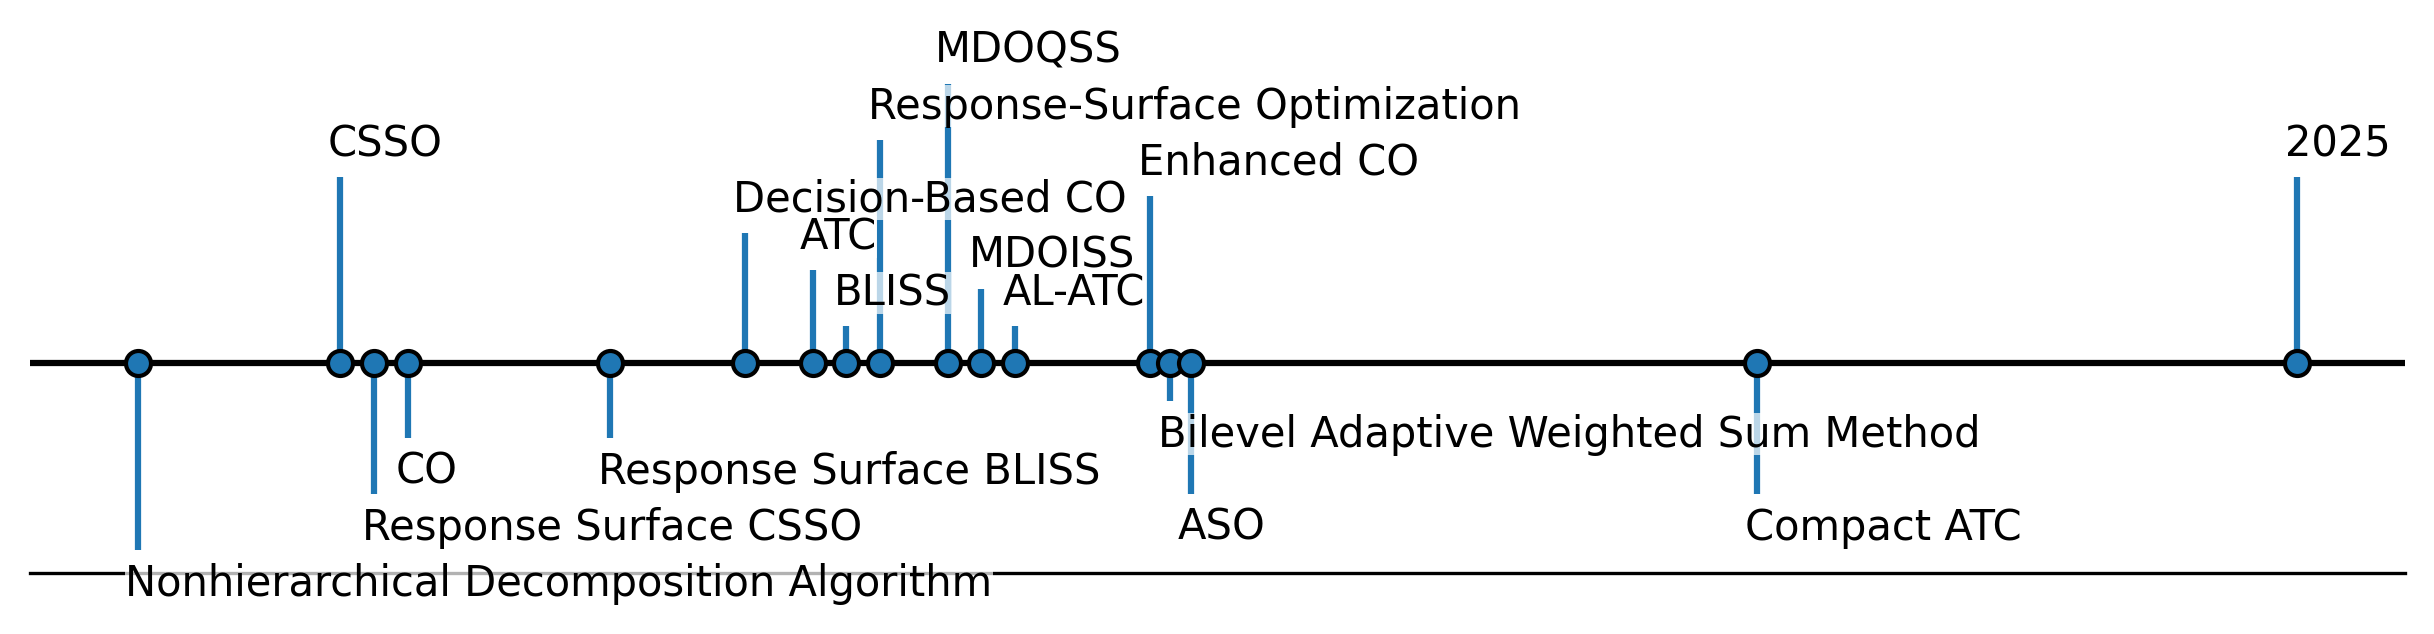
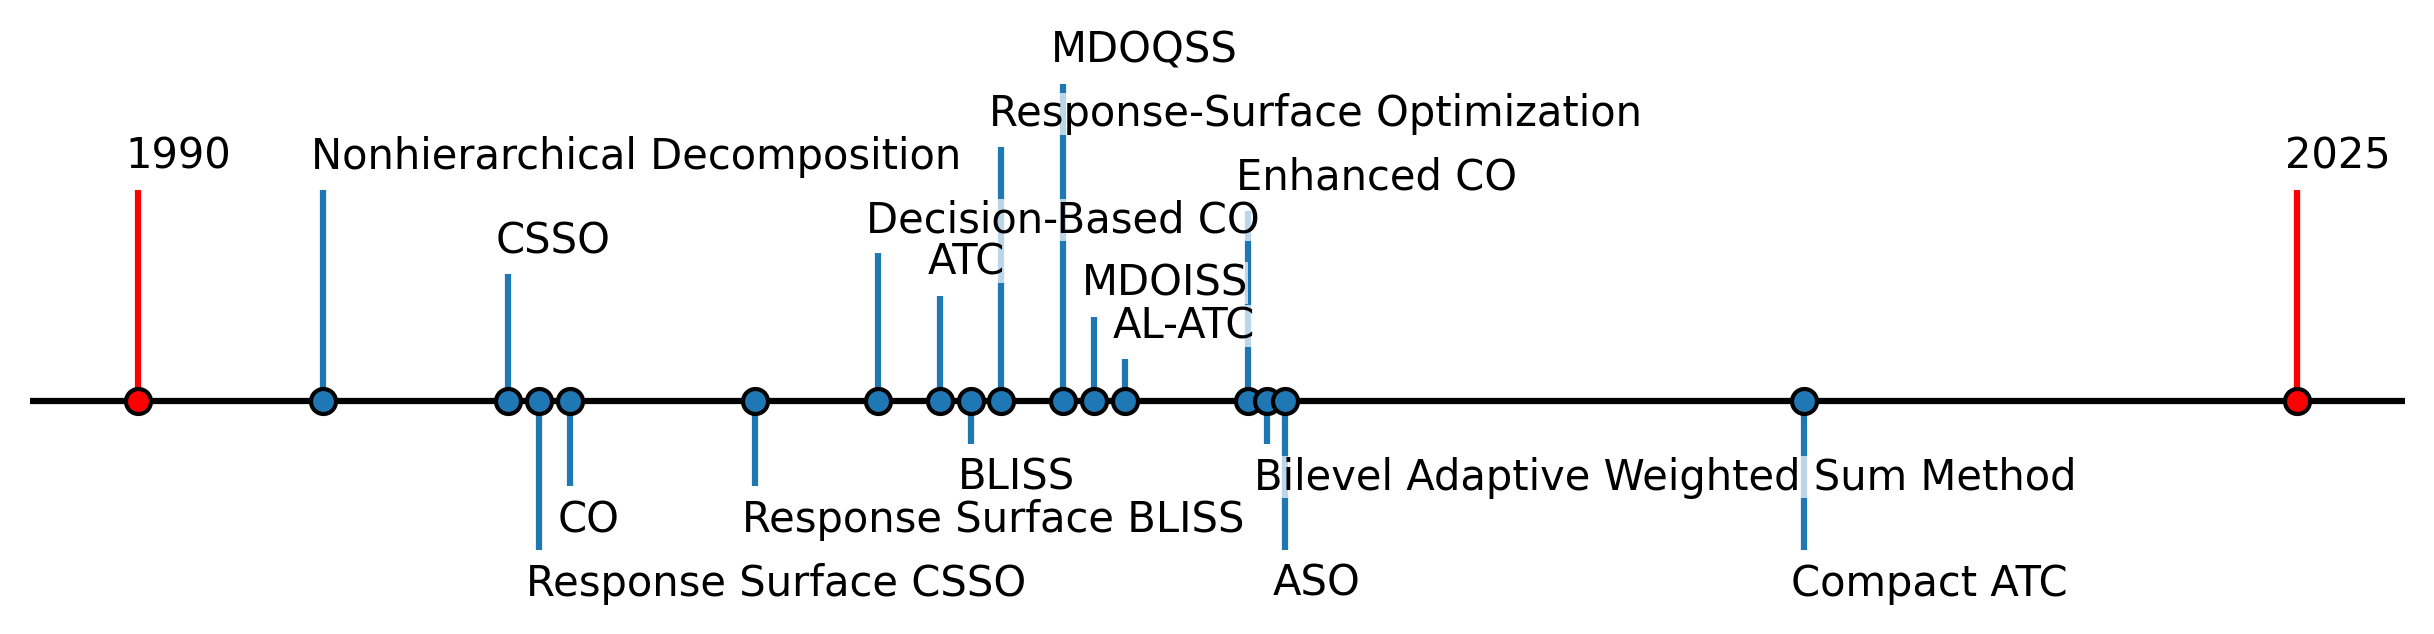
distributed timeline

diff --git a/distributed_timeline.py b/distributed_timeline.py
@@ -1,59 +1,74 @@
-from datetime import datetime
-
+from datetime import datetime, timedelta
 import matplotlib.pyplot as plt
 import numpy as np
 
 import matplotlib.dates as mdates
 
 
-releases = ['CSSO', 'CO', 'ATC', 'BLISS', 'Enhanced CO', 'AL-ATC', 'MDOQSS',
+releases = ['1990', 'CSSO', 'CO', 'ATC', 'BLISS', 'Enhanced CO', 'AL-ATC', 'MDOQSS',
             'Response-Surface Optimization', 'Decision-Based CO', 'Response Surface BLISS', 
-            'MDOISS', 'Nonhierarchical Decomposition Algorithm', 'Bilevel Adaptive Weighted Sum Method', 'ASO', 
+            'MDOISS', 'Nonhierarchical Decomposition', 'Bilevel Adaptive Weighted Sum Method', 'ASO', 
             'Response Surface CSSO', 'Compact ATC', '2025']
-dates = [1996, 1997, 2003, 2003.5, 2008, 2006, 2005, 2004, 2002, 2000, 2005.5, 1993, 2008.3, 2008.6, 1996.5, 2017, 2025]
+dates = [1990, 1996, 1997, 2003, 2003.5, 2008, 2006, 2005, 2004, 2002, 2000, 2005.5, 1993, 2008.3, 2008.6, 1996.5, 2017, 2025]
 
 releases = [tuple(release.split('.')) for release in releases]  # Split by component.
 dates, releases = zip(*sorted(zip(dates, releases)))  # Sort by increasing date.
 
-
-# levels = [1] * len(dates)
-
-levels = [-1, 1, -0.7, -0.4, -0.4, 0.7, 0.5, 0.2, 1.2, 1.5, 0.4, 0.2, 0.9, -0.2, -0.7, -0.7, 1]
-
-# # create new levels that alternate between 1 and -1
-# for i in range(len(levels)):
-#     if i % 2 == 0:
-#         levels[i] = 1
-#     else:
-#         levels[i] = -1
+levels = [1, 1, 0.6, -0.7, -0.4, -0.4, 0.7, 0.5, -0.2, 1.2, 1.5, 0.4, 0.2, 0.9, -0.2, -0.7, -0.7, 1]
 
 
 # The figure and the axes.
 fig, ax = plt.subplots(figsize=(8, 2), layout="constrained")
+# fig, ax = plt.subplots(figsize=(8, 2))
 
-# The vertical stems.
-ax.vlines(dates, 0, levels, color="tab:blue")
+# Convert numeric year values (possibly with fractional year) to datetimes.
+def _year_fraction_to_datetime(y: float) -> datetime:
+    year = int(y)
+    frac = y - year
+    # Convert fractional part of year to days (approximate, ignores leap years).
+    days = int(round(frac * 365))
+    return datetime(year, 1, 1) + timedelta(days=days)
+
+date_objs = [_year_fraction_to_datetime(d) for d in dates]
+
+# The vertical stems and markers. Allow highlighting specific years in red.
+highlight_years = {1990, 2025}  # change this set to highlight other years
+# Draw the stems individually so we can color certain years differently.
+for date_obj, level in zip(date_objs, levels):
+    color = 'red' if date_obj.year in highlight_years else "tab:blue"
+    ax.vlines(date_obj, 0, level, color=color)
+
 # The baseline.
 ax.axhline(0, c="black")
-# The markers on the baseline.
-micro_dates = [date for date, release in zip(dates, releases)]
-ax.plot(micro_dates, np.zeros_like(micro_dates), "ko", mfc="tab:blue")
+
+# The markers on the baseline: draw individually to allow per-point facecolor.
+for date_obj in date_objs:
+    face = 'red' if date_obj.year in highlight_years else 'tab:blue'
+    ax.plot(date_obj, 0, marker='o', markersize=6,
+            markeredgecolor='k', markerfacecolor=face)
 
 # Annotate the lines.
-for date, level, release in zip(dates, levels, releases):
+for date_obj, level, release in zip(date_objs, levels, releases):
     version_str = '.'.join(release)
-    ax.annotate(version_str, xy=(date, level),
+    ax.annotate(version_str, xy=(date_obj, level),
                 xytext=(-3, np.sign(level)*3), textcoords="offset points",
                 verticalalignment="bottom" if level > 0 else "top",
                 weight="normal",
                 bbox=dict(boxstyle='square', pad=0, lw=0, fc=(1, 1, 1, 0.7)))
 
-ax.xaxis.set(major_locator=mdates.YearLocator(),
-             major_formatter=mdates.DateFormatter("%Y"))
+# Use proper major locator/formatter for dates.
+# ax.xaxis.set_major_locator(mdates.YearLocator(3))  # show ticks every 3 years
 
-# Remove the y-axis and some spines.
+# Remove the y-axis and some spines.  Also hide the bottom spine so the axis
+# frame line doesn't appear; the timeline baseline drawn with ax.axhline(0)
+# will still be visible. If you want to remove that baseline too, remove or
+# comment out the ax.axhline(...) call above.
 ax.yaxis.set_visible(False)
-ax.spines[["left", "top", "right"]].set_visible(False)
+ax.spines[["left", "top", "right", "bottom"]].set_visible(False)
+
+ax.xaxis.set_visible(False)
+
+# ax.tick_params(axis='x', which='major', rotation=45, pad=14, labelsize=8)
 
 plt.savefig('distributed_timeline.png', dpi=300, transparent=True, bbox_inches='tight')
 plt.show()
